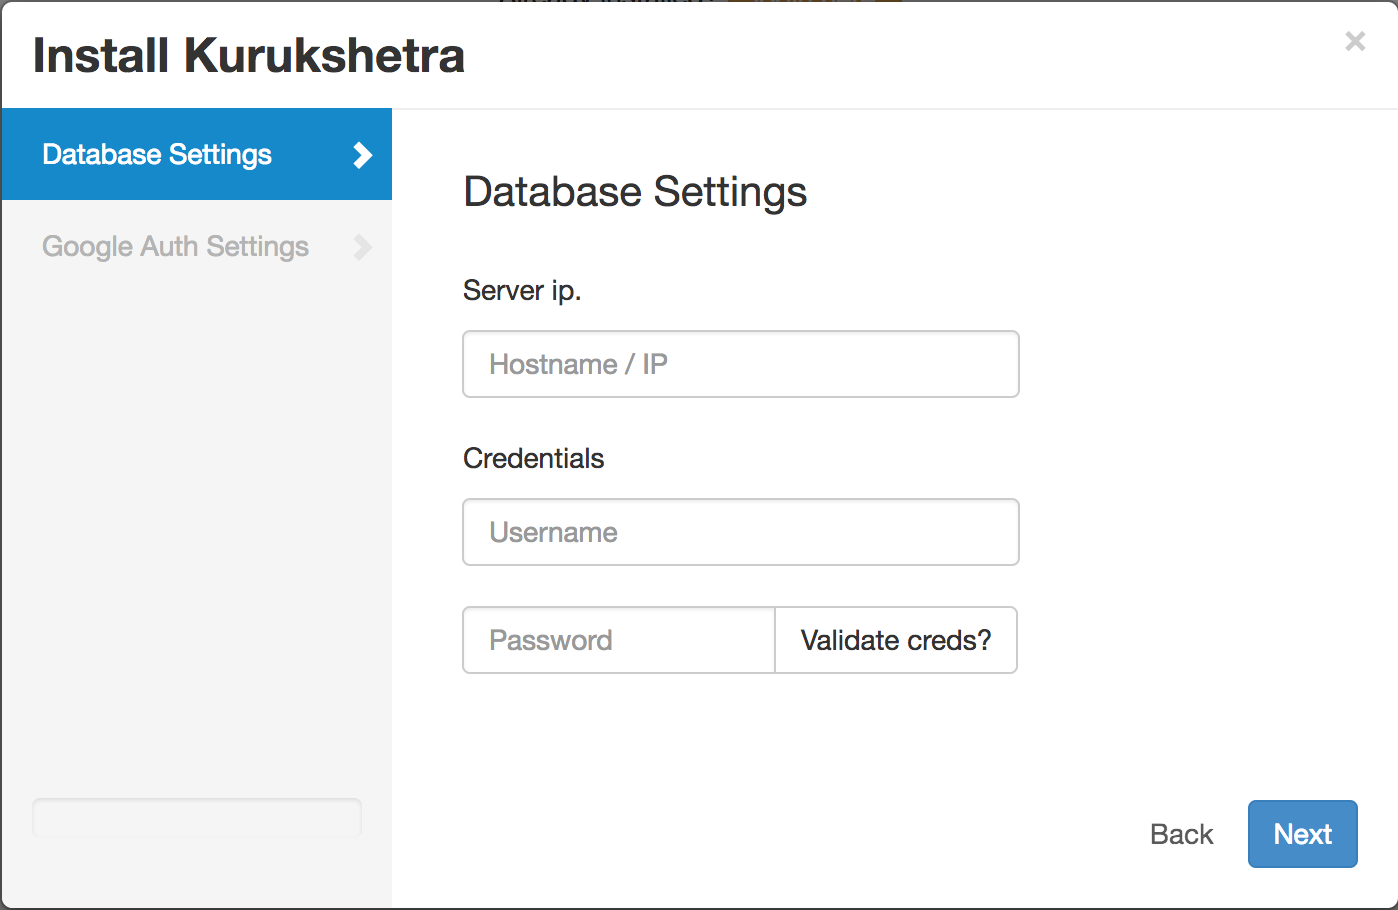
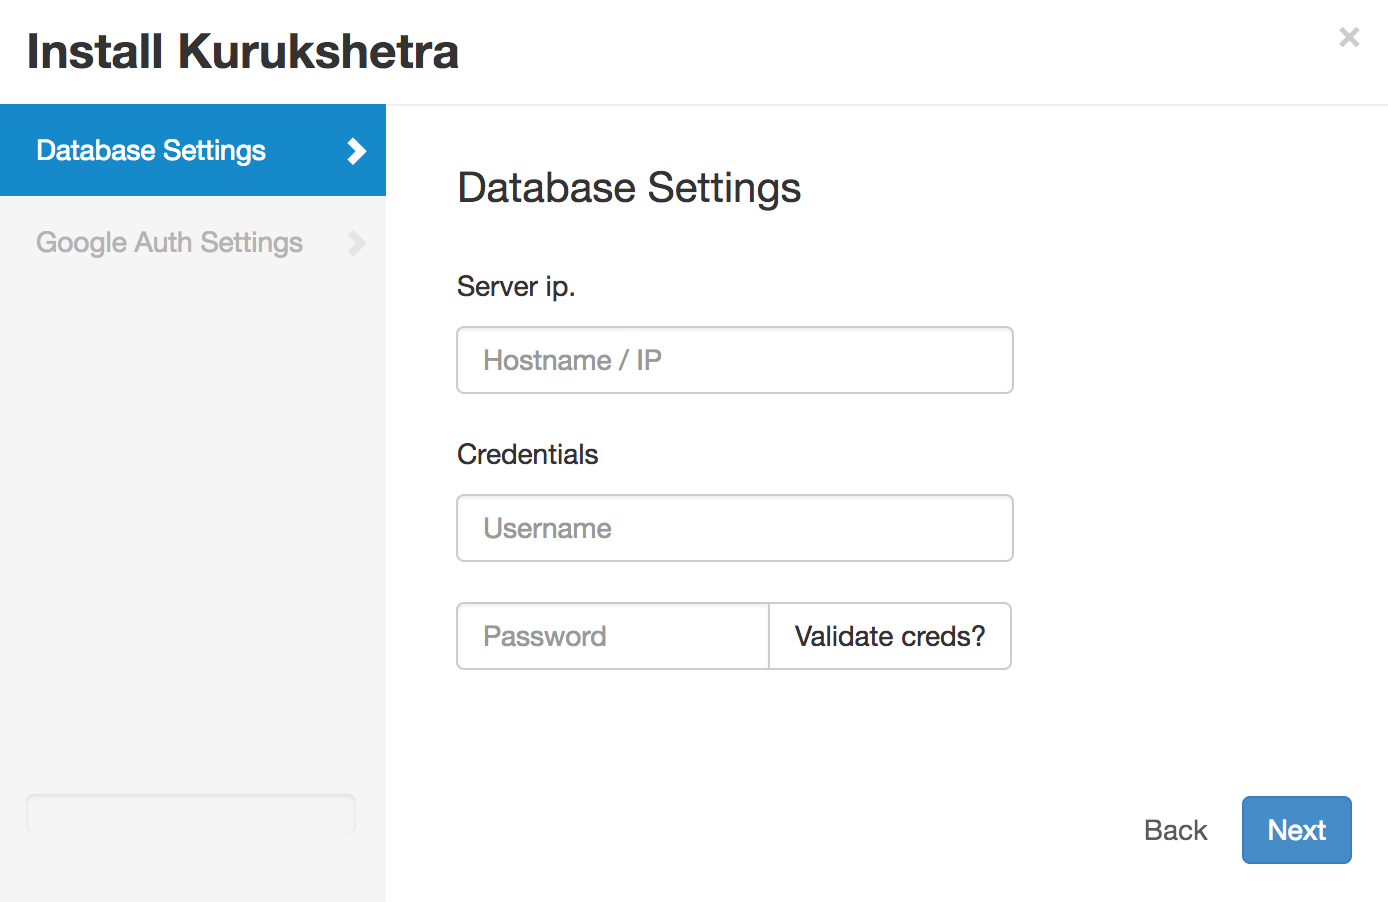
Updating README

diff --git a/README.md b/README.md
@@ -5,7 +5,7 @@
 </p>
 
 [![Github Release Version](https://img.shields.io/badge/release-V1.0-green.svg)](https://github.com/a0xnirudh/kurukshetra)
-[![Github Release Version](https://img.shields.io/badge/php-2.7-green.svg)](https://github.com/a0xnirudh/kurukshetra)
+[![Github Release Version](https://img.shields.io/badge/php-7.2-green.svg)](https://github.com/a0xnirudh/kurukshetra)
 [![License](https://img.shields.io/badge/License-GPL%20v3-green.svg)](https://github.com/a0xnirudh/kurukshetra/blob/master/LICENSE)
 [![RTA loves Open source](https://badges.frapsoft.com/os/v1/open-source.svg?v=103)](https://github.com/a0xnirudh/kurukshetra)
 
@@ -46,7 +46,7 @@ chmod 755 -R /var/www/html
 * Visit `http://localhost` or `http://127.0.0.1` to navigate into installation (will auto redirect into /installation/).
 
 <p align="center">
-<img src="/staticfiles/img/install.png">
+<img src="/staticfiles/img/install.png" width="700">
 </p>
 
 * Enter the MySQL DB credentials (user should have the permission to create database) and click on validate to see if the credentials are correct.
